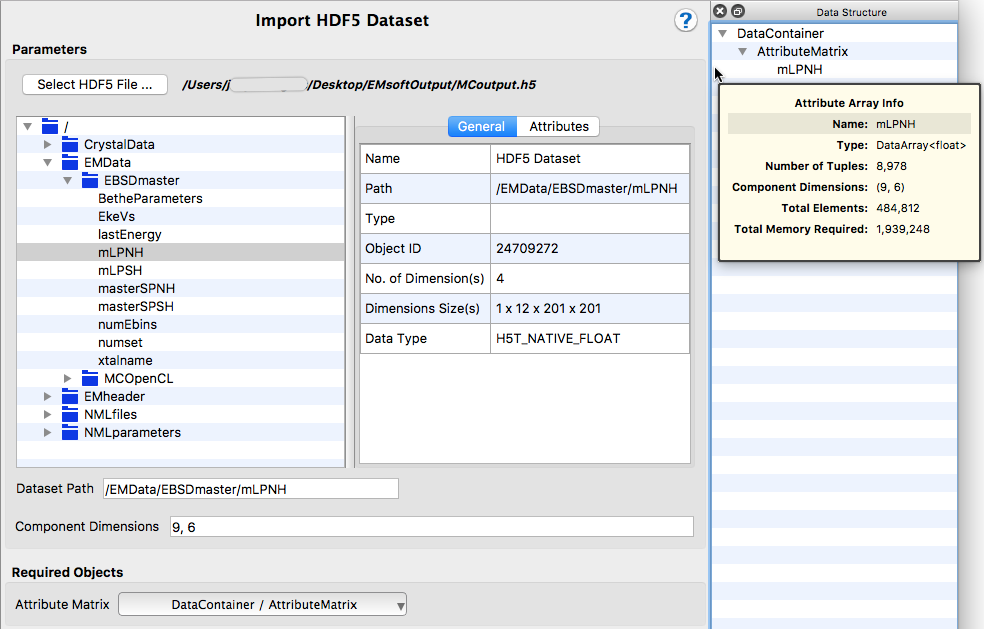
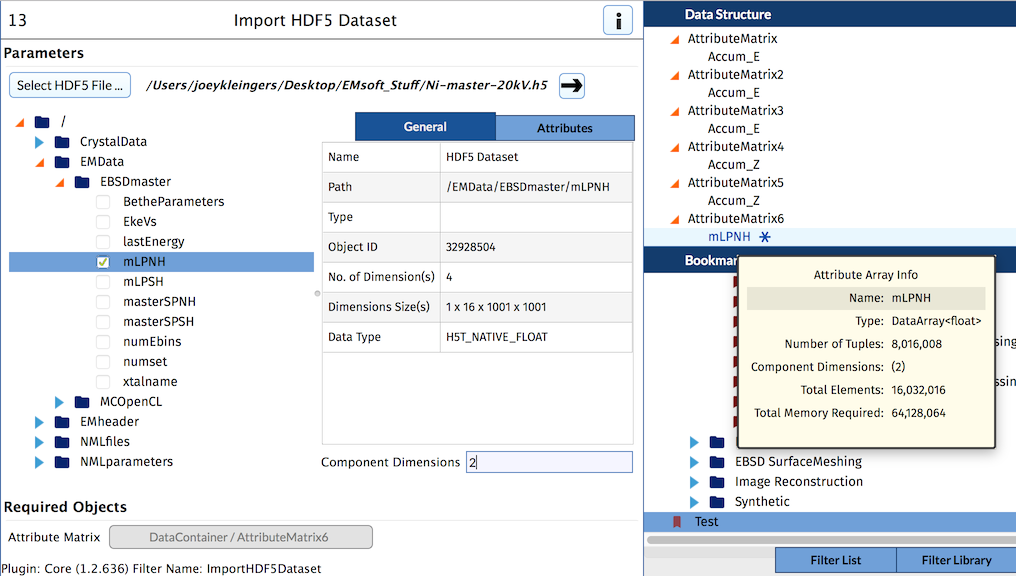
Updating the ImportHDF5Dataset documentation to explain the changes made to the filter.

diff --git a/Source/SIMPLib/Documentation/SIMPLibFilters/CoreFilters/ImportHDF5Dataset.md b/Source/SIMPLib/Documentation/SIMPLibFilters/CoreFilters/ImportHDF5Dataset.md
@@ -7,9 +7,7 @@ Core (IO/Read)
 
 ## Description ##
 
-This **Filter** allows the user to import a dataset from an HDF5 file and store it as an attribute array in DREAM.3D.  This filter supports importing datasets with any number of dimensions, as long as the component dimensions parameter and the tuple dimensions of the destination attribute matrix work with the dataset dimensions to satisfy this equation:
-
-(Product of Dataset Dimensions) / (Product of Component Dimensions) = (Destination Attribute Matrix Tuple Dimensions)
+This **Filter** allows the user to import datasets from an HDF5 file and store them as attribute arrays in DREAM.3D.  This filter supports importing datasets with any number of dimensions, as long as the created attribute array's total number of components and the tuple count of the destination attribute matrix multiply together to match the HDF5 dataset's total number of elements.
 
 The component dimensions are input as a comma-delimited list of dimensional values.  For example:
 1. 3, 4 = 3x4
@@ -20,23 +18,23 @@ The component dimensions are input as a comma-delimited list of dimensional valu
 1. Suppose we have a 1D dataset in an HDF5 file with dimension **12,000**.
 	We can input component dimensions of **5, 2, 2** and set the destination attribute matrix tuple dimensions to **35 x 5 x 2 x 2**
     
-    Using the equation:
-    (12,000) / (5 x 2 x 2) = (35 x 5 x 2 x 2)
-    12,000 / 20 = 700
-    600 = 700
+    The total number of elements for the HDF5 dataset is 12,000.
+    The total number of tuples in the destination attribute matrix is 35\*5\*2\*2 = 700.
+    The total number of components for the created attribute array is 5\*2\*2 = 20.
+    The total number of elements for the created attribute array will be 700\*20 = 14,000.
     
-    We have NOT satisfied the equation, so this will cause preflight errors.
+    14,000 does not equal 12,000, so this will result in a preflight error.
     
-1. Suppose we have a 3D dataset in an HDF5 file with dimensions **1 x 12 x 201 x 201**.  That is 484,812 total elements in the dataset.
+1. Suppose we have a 3D dataset in an HDF5 file with dimensions **1 x 16 x 1001 x 1001**.
 
-	We can input component dimensions of **9, 6** and set our destination attribute matrix tuple dimensions to **134 x 67**.
+	We can input component dimensions of **2** and set our destination attribute matrix tuple dimensions to **134 x 67**.
 
-	This will import correctly, because:
-	(1 x 12 x 201 x 201) / (9 x 6) = (134 x 67)
-	484,812 / 54 = 8,978
-	8,978 = 8,978
-
-	We have satisfied the equation, so we can import this dataset without errors (see below).
+    The total number of elements for the HDF5 dataset is 1\*16\*1001\*1001 = 16,032,016.
+    The total number of tuples in the destination attribute matrix is 8\*1001\*1001 = 8,016,008.
+    The total number of components for the created attribute array is 2.
+    The total number of elements for the created attribute array will be 8,016,008\*2 = 16,032,016.
+    
+    The total number of elements of the created attribute array (16,032,016) equals the total number of elements of the HDF5 dataset (16,032,016), so we can import this dataset without errors (see below).
 
 ![](Images/ImportHDF5Dataset_ui.png)
 
@@ -45,8 +43,8 @@ The component dimensions are input as a comma-delimited list of dimensional valu
 | Name | Type | Description |
 |------|------| ----------- |
 | HDF5 File | QString | The path to the HDF5 file |
-| Dataset Path | QString | The HDF5 path to the dataset to import |
-| Component Dimensions | QString | The component dimensions that the imported data will have.  This is a comma-delimited list of dimensional values |
+| Checked Datasets | N/A | The checked datasets in the file tree to import |
+| Component Dimensions | QString | The component dimensions that the imported dataset will have.  This is a comma-delimited list of dimensional values |
 
 
 ## Required Geometry ##
@@ -63,7 +61,7 @@ Not Applicable
 
 | Kind | Default Name | Type | Component Dimensions | Description |
 |------|--------------|------|----------------------|-------------|
-| **Attribute Array** | Name of dataset from HDF5 file | Type from HDF5 file | Input as a filter parameter | The created Attribute Array |
+| **Attribute Array(s)** | Name of dataset(s) from HDF5 file | Type from HDF5 file | Input as a filter parameter | The created Attribute Array(s) |
 
 ## Example Pipelines ##
 
